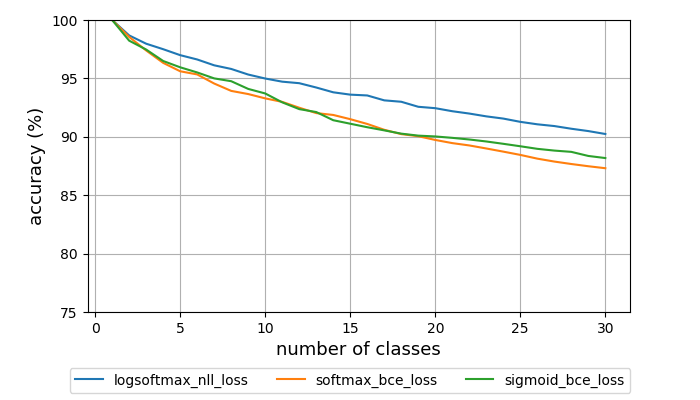
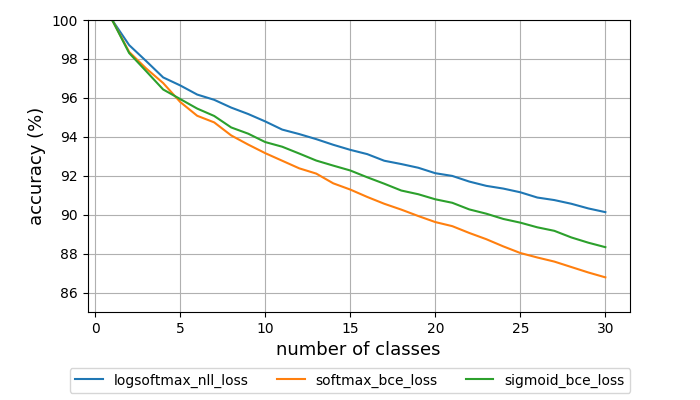
graphs

diff --git a/report/project.tex b/report/project.tex
@@ -150,54 +150,53 @@ When we are constructing a composed model, we only retrieve weights for positive
 
 \section{Accuracy Preservation}
 
-However, does Composing algorithm also guarantees the accuracy requirements? To answer this question, we need to understand how different loss function affects the behaviour of the composed model.
+However, does Composing algorithm also guarantees the minimal accuracy degradation between base model and composed model? To answer this question, we need to understand how different loss function affects the behaviour of the composed model.
 
-\subsection{Limitations with cross entropy loss}
+\subsection{Limitations of cross entropy loss}
 
-State of the art loss for multi-classification problem is cross entropy (CE) loss, which transforms output using softmax and calculates loss using negative log likelihood (NLL).
-Softmax and NLL loss are defined as following:
+State of the art for multi-classification is to use cross entropy (CE) loss, which transforms output by applying softmax and calculates negative log likelihood (NLL) as a measure of loss. Consider the definition of CE loss and NLL loss:
 
 \begin{align*}
-Softmax(y_i) &= \frac{e^{y_i}}{\sum_{j}e^{y_j}} \\
 NegativeLogLikelihood(y, t) & = -\frac{1}{N}\sum_{i=1}^N \left[ t_i \cdot \log y_i\right] \\
+y_i = Softmax(x_i) &= \frac{e^{x_i}}{\sum_{j}e^{x_j}} \\
 \end{align*}
 
-where $x$ is the output of the network and $t$ is the target. target is one hot encoded vector as in common classification problem.
+where $x$ is the output of the network and $t$ is the target, one hot encoded vector as in common implementation. In other words, softmax calculates normalized logits of the network output. Therefore, $y$ has value between zero and one and they must sum up to one. Since multi-class classifier rely on the mutually exclusive assumption among target classes, CE loss is the most suitable as it promotes the positive class while suppressing the negative classes.
 
-Softmax is normalized logits computed from the output of the network. Therefore each index has value between zero and one and sum is designed to be one. Since multi-class classifier rely on the mutually exclusive assumption with about the classes, CE loss is the most suitable as it promotes the positive class while suppressing the negative classes.
+However, such assumption can lead to unpredictable behaviour with composing algorithm. When CE loss is used throughout the composing algorithm, the loss which used in fine-tuning is computed with respect to the output of negative class. However, for a composed model, probability for each class is computed using independently fine-tuned weights and a class with the highest probability is selected as a final prediction.
 
-However, such assumption does not hold for composed model and CE loss can cause indeterministic behaviour with composed model. When CE loss is used throughout the composing algorithm, the loss which used in fine-tuning is computed with respect to the output of negative class. However, for a composed model, it is not fair to select the class with the greatest value as final class because model outputs for each class are not constructed with respect to each other.
-
-For example, let us say there are 3 classes: A, B, and C. For fine-tuning, we construct a dataset which has two classes: one for target class (positive class) and the other constructed with the other two classes (negative class). Once models are fine-tuned for each class, we have weights for positive class and negative class. For simplicity, positive weights are referred with lower case (a, b, and c) and negative weights with lower case with prime (a', b', and c'). During fine-tuning, loss is calculated in pairs: a -- a', b -- b', c -- c'. However, when we construct a composed model, the last layer consists of weights a, b and c. As a results, selecting the highest value as a final class is not a valid approach.
+For example, let us say there are 3 classes: A, B, and C. For fine-tuning, each dataset is constructed with two classes: a positive class representing the target class and negative class representing all the other classes. For simplicity, positive weights are referred with lower case (a, b, and c) and negative weights with lower case with prime (a', b', and c'). During fine-tuning, loss is calculated in pairs: a -- a', b -- b', c -- c'. However, for composing step, the last layer consists of weights a, b and c. As a results, there is no guarantee that the class with the highest value is in fact the class with highest probability.
 
 \subsection{Binary cross entropy with sigmoid}
 
-We now understand the limitation of CE loss caused by mutually exclusive assumption among classes. To overcome such issue, I propose binary cross entropy (BCE) loss with sigmoid.
+Given that CE loss does not preserve the accuracy between the base model and composed model due to mutually exclusive assumption among classes, I propose binary cross entropy (BCE) loss with sigmoid to combat the accuracy degradation.
 
 \begin{align*}
-Sigmoid(y_i) &= \frac{1}{1 + e^{-x_i}} \\
 BinaryCrossEntropy(y, t) & = -\frac{1}{N}\sum_{i=1}^N \left[ t_i \cdot \log y_i + (1 - t_i) \cdot \log (1 - t_i) \right] \\
+y_i = Sigmoid(y_i) &= \frac{1}{1 + e^{-x_i}} \\
 \end{align*}
 
-Unlike softmax in CE Loss, the only input for sigmoid is the output from the network at the corresponding index. Furthermore, while CE loss considers mutually exclusive assumption as part of its calculation, BCE loss considers each index independently and is calculated with respect to its target. As a result, weights for each class in fine-tuned model no longer depend on other factors. This indicates that class with the highest output from composed model has the highest probability of being true class.
+Unlike CE loss, both sigmoid and BCE loss treat each index independently. In other words, weights for each class obtained from fine-tuning does not depend on other classes. This indicates that class with the highest output from composed model is in fact most likely to be the true class among the target classes.
 
-It is found that multi-label classification has raised the same issue with CE loss~\cite{liu2017deep}. It is found that the independence guarantee provided by BCE loss with sigmoid is crucial for multi-label classification and enabled successful training of a model.
+In multi-label classification, the same issue has been raised with CE loss~\cite{liu2017deep}. It is found that the independence guarantee provided by BCE loss with sigmoid is crucial for multi-label classification and enabled successful training of a classifier.
 
 \section{Experiments}
 
-Realising the theoritical limitation of cross entropy loss, I have conducted thorough experiments using PyTorch, reporting how different loss function affects the performance of composed model.
+Realizing the limitation of CE loss from the definitions, I have implemented Composing algorithm on MNIST, Keyword Spotting, and CIFAR-100 demonstrating its feasibility. Experiments are implemented with PyTorch and available on github\footnote{\url{https://github.com/ljj7975/composable-model-exp}}.
 
-In this experiment, I evaluate three different loss functions. First loss function is CE loss. Since PyTorch NLL loss implementation expects log probability, log is applied after softmax but it is found that this does not affect the conclusion from the experiments. Next, I include sigmoid with BCE loss which successfully preserves accuracy between base and composed model. Lastly, I include BCE loss with softmax. This setting is known to be unstable because BCE loss assumes the independence among classes. In fact, I have observed the training collapse once it reaches a certain point. However, since we report accuracy from the best model, results from this setting is still valid and meaningful. This setting should demonstrate how crucial sigmoid is in the composing algorithm as it simply replace sigmoid with softmax from last setting.
+For each dataset, I construct a composed model using three different loss functions. First, I include CE loss. Since PyTorch NLL loss implementation expects log probability, log is applied after softmax but it is found that this does not affect the experiments. Next, I use sigmoid with BCE loss which is found to preserve accuracy better than CE loss. Last loss function is softmax with BCE loss. This setting is known to be unstable because BCE loss assumes the independence among classes while softmax does not. In fact, I have observed the training collapse at some point. However, as I report accuracy from the best model, I found the results from this setting still valid and meaningful. This setting should allow me to understand how crucial sigmoid is for sigmoid with BCE loss combination as it simply replace sigmoid with softmax.
 
-Experiments are conducted with MNIST, Keyword Spotting, and CIFAR100 varying on number of classes, 10, 30, and, 100 respectively. From each experiment, I report accuracy of base model, fine-tuned model, and composed model. Furthermore, as I construct composed model by adding a class at a time, I also report accuracy for each intermediary composed model to understand how how number of classes affects the accuracy of combined model. It is found that the intermediary composed model accuracy fluctuate quite a bit depending on the order each class is added. Therefore, I repeat this process 10 times for each base model as I randomly select a class to add next.
+Throughout the experiments, I report accuracy from every model created from Composing algorithm: base model, fine-tuned model, and composed model. Comparing accuracy of base model against corresponding composed model, it is possible to understand how stable Composing algorithm is with respect to each loss function.
+
+In order to understand how the accuracy of composed model changes with respect to number of classes, I report accuracy from each intermediary composed model as I add a class to construct a composed model. Since fine-tuned accuracy for some classes are greater than the other, I repeat this step 10 times with randomly selection on next class to add and report average.
 
 \subsection{MNIST}
 
-MNIST is a standard benchmark for classification~\cite{lecun1998gradient} which consist of images for handwritten digits. Among the wide range of model architecture solving this problem, I have conducted my experiments with \texttt{LeNet-5} ~\cite{lecun2015lenet}. \texttt{LeNet-5} is constructed with two convolutional, one dropout and two fully connected layers. The original implementation of \texttt{LeNet-5} has 10 and 20 channels for the two convolutional layers and produces accuracy of 98\% on MNIST dataset. Since our goal of this experiment is to understand the difference in peformance caused by different loss functions, I intentionally limited the expressive power of the network by constructing the network with only 5 channels for both convolutional layers.
+MNIST is a standard benchmark for classification~\cite{lecun1998gradient} which consist of images for handwritten digits. Among the wide range of model architecture solving this problem, I have conducted my experiments with \texttt{LeNet-5}~\cite{lecun2015lenet}. \texttt{LeNet-5} is constructed with two convolutional, one dropout and two fully connected layers. The original implementation of \texttt{LeNet-5} has 10 and 20 channels for the first two convolutional layers and produces accuracy of 98\% on MNIST dataset. Since our goal of this experiment is to understand the change in accuracy as different loss functions are used for Composing algorithm, I intentionally limited the expressive power of the network by reconstructing the network with only 5 channels for both convolutional layers.
 
-Both base model training and fine-tuning is conducted using Adam optimizer with learning rate of 0.0001. After conducting 50 iterations of the experiment, it is found that all three loss function converges to similar accuracy within 5 epochs. The base models converge to average accuracy of 95\% and fine-tuned models converge to 98\% (see Figure \ref{table:mnist}).
+Both base model and fine-tuned models are trained using Adam optimizer with learning rate of 0.0001. After conducting 50 experiments, it is found that all three loss function converges to similar accuracy within 5 epochs. The base models converge to average accuracy of 95\% and fine-tuned models converge to 98\% (see Figure \ref{table:mnist}).
 
-Table \ref{figure:composed_mnist} summarizes how the accuracy changes as number of classes increases for composed model. No matter which loss function is used for composing algorithm, decrease in accuracy is found as more classes are involved for the composed model construction. However, models with softmax based loss is found to suffer at a greater rate than models with sigmoid based loss. With CE loss, the composed model for all 10 classes has an accuracy of 85.86\% introducing 10.5\% decrease with respect to the base model. decrease from BCE loss with softmax is found to be the greatest as the accuracy decreases by 17.85\% with the final accuracy of 78.50\%. On the other hand, BCE loss with sigmoid introduces the minimal degradation of 0.2\% and achieves the final accuracy of 95.29\%. \red{This proves that class independence training is crucial with the composing algorithm.}
+Table \ref{figure:composed_mnist} summarizes how the accuracy changes as number of classes increases for composed model. No matter which loss function is used for Composing algorithm, accuracy of composed model decreases as more classes contributes to the composed model. However, models with softmax based loss is found to suffer at a greater rate than models with sigmoid based loss. With CE loss, the composed model for all 10 classes has an accuracy of 85.86\% with relative decrease of 10.5\% from the base model accuracy. Composed model trained with softmax with BCE loss is found to be the worst. The average final accuracy is 78.50\% which is 17.85\% relative decrease. As expected, sigmoid with BCE loss introduces minimal accuracy degradation and achieves 95.29\% accuracy which is very similar to the base model accuracy.
 
 \begin{table}[t]
     \centering
@@ -209,7 +208,7 @@ Table \ref{figure:composed_mnist} summarizes how the accuracy changes as number 
         \multicolumn{2}{c}{\bf Composed model } \\
         \cmidrule(lr){3-5}
         \cmidrule(lr){6-7}
-        & & average & minimum & maximum & accuracy & decrease rate \\
+        & & average & minimum & maximum & accuracy & relative decrease \\
         \midrule
         LogSoftmax + NLL & 95.8 & 98.02 & 96.29 & 99.24 & 85.74 & 10.50 \\
         Softmax + BCE & 94.71 & 97.33 & 95.08 & 99.06 & 77.80 & 17.85 \\
@@ -229,16 +228,15 @@ Table \ref{figure:composed_mnist} summarizes how the accuracy changes as number 
 
 \subsection{Keyword Spotting}
 
-In order to evaluate the universality of composing algorithm, I extend the idea to keyword spotting where the input data is audio. The goal of Keyword Spotting (KWS) is to detect an audio of pre-trained keywords, such as “Hey Siri”. Since the first menaing results introduced by~\cite{chen2014small}, Neural network has been the {\it de facto} approach for KWS. In this experiment, I implement \texttt{res15-narrow} introduced by~\cite{tang2018deep}, which achieves accuracy of 94\% for 12 keywords on Google’s Speech Commands Dataset~\cite{speechcommandsdataset}. \texttt{res15-narrow} comprises 6 residual blocks with 19 feature maps where each residual block is composed of bias-free convolutional and batch normalization layer.
+To understand the universality of Composing algorithm, I extend this idea to keyword spotting where the input data is audio. The goal of Keyword Spotting (KWS) is to detect an audio of pre-trained keywords, such as “Hey Siri”. Since the first application of deep learning on KWS by~\cite{chen2014small}, Neural network has became standard approach for KWS. In this experiment, I implement \texttt{res15-narrow} introduced by~\cite{tang2018deep}, which achieves accuracy of 94\% for 12 keywords on Google’s Speech Commands Dataset~\cite{speechcommandsdataset}. \texttt{res15-narrow} comprises 6 residual blocks with 19 feature maps where each residual block is composed of bias-free convolutional and batch normalization layer.
 
-As opposed to the previous studies with Google’s Speech Commands Dataset where accuracy is evaluated on 12 keywords, I include all 30 keywords as I am interested in how stable the composing algorithm with respect to the increasing number of classes. Following the standard feature extraction process for audio, I first construct Forty-dimensional Mel-Frequency Cepstrum Coefficient (MFCC) frames and stack them using 30ms windows with a 10ms shift. Since the dataset has one-second long utterances of each word, the final processed input size is
-$101\times40$.
+As opposed to the previous studies with Google’s Speech Commands Dataset where accuracy is evaluated on 12 keywords, I include all 30 keywords as I am interested in how stable Composing algorithm is with larger number of classes. Following the standard feature extraction process for audio, I first construct Forty-dimensional Mel-Frequency Cepstrum Coefficient (MFCC) frames and stack them using 30ms windows with a 10ms shift. Since the dataset consists of one-second long utterances of each word, the processed input has size of $101\times40$.
 
-Throughout 10 experiments conducted, stochastic gradient descent is used to train both base model and fine-tuned model with decreases in learning rate from 0.1 to 0.0001, stepping by a factor of ten. The base model is trained for 30 epochs with decrease in learning rate at 10 and 20 epochs. Unlike MNIST, the standard CE loss produces the best results; average accuracy of 93.11\%. It is found that the base model achieves average accuracy of 91.03\% and 89.63\% when trained using softmax with BCE loss and sigmoid with BCE loss respectively.
+Throughout 10 experiments conducted, stochastic gradient descent is used to train both base model and fine-tuned model. Training starts with learning rate of 0.1 but it is decreased to 0.001 by factor of ten at different epochs for each training. Base models are trained for 30 epochs with decrease at 10 and 20th epochs and fine-tuned models are trained for 10 epochs with decrease at 4 and 7th epochs.
 
-In order to obtain fine-tuned weights for each class, I further fine-tune the last fully-connected layer for 10 epochs with the decrease at 4 and 7 epochs. As summarized in table \ref{table:kws}, CE loss leads to the best fine-tuned models of 95.31\% accuracy. Similarly, softmax with BCE loss produces fine-tuned models with average accuracy of 91.84\% and sigmoid with BCE loss produces models with 91.28\%.
+Unlike MNIST, it is found type of loss function introduces difference in accuracy for KWS (see Table \ref{table:kws}). \texttt{res15-narrow} achieves the best accuracy when it is trained with CE loss; 93.09\% accuracy from the base model with average accuracy of 95.32\% from fine-tuned models. Softmax with BCE loss achieves 90.94\% accuracy with base model and average accuracy of 91.79\% with fine-tuned models. Sigmoid with BCE loss starts from the lowest accuracy of 89.62\% with fine-tuned models of 91.31\% accuracy.
 
-As observed in the experiment with MNIST, accuracy of composed model decreases as more classes are involved (see \ref{figure:composed_kws}. The model with CE loss shows the final accuracy of 90.24\% which is 3.08\% relative decrease from its base model accuracy. Softmax with BCE loss shows relative decrease of 4.09\% with the final accuracy of 87.31\% while the relative decrease in accuracy with sigmoid with BCE loss is only 1.62\% with the final accuracy of 88.18\%. Though composed model with CE loss demonstrates the best performance, sigmoid with BCE loss is found to be the most roboust loss function for composing algorithm with KWS.
+However, as observed with MNIST, sigmoid with BCE loss shows the least relative decreases from the base model accuracy. While sigmoid with BCE loss leads to relative decrease of 1.44\%, CE loss and softmax with BCE loss shows relative decreases of 3.18\% and 4.57\% respectively. From figure \ref{figure:composed_kws}, it is found that accuracy of composed models decreases again for KWS as number of classes increases.
 
 \begin{table}[t]
     \centering
@@ -250,17 +248,16 @@ As observed in the experiment with MNIST, accuracy of composed model decreases a
         \multicolumn{2}{c}{\bf Composed model } \\
         \cmidrule(lr){3-5}
         \cmidrule(lr){6-7}
-        & & average & minimum & maximum & accuracy & decrease rate \\
+        & & average & minimum & maximum & accuracy & relative decrease \\
         \midrule
-        LogSoftmax + NLL & 93.11 & 95.31 & 92.89 & 97.17 & 90.24 & 3.08 \\
-        Softmax + BCE & 91.03 & 91.98 & 89.29 & 95.28 & 87.31 & 4.09 \\
-        Sigmoid + BCE & 89.63 & 91.28 & 89.08 & 93.97 & 88.18 & 1.62 \\
+        LogSoftmax + NLL & 93.09 & 95.32 & 92.57 & 97.59 & 90.13 & 3.18 \\
+        Softmax + BCE & 90.94 & 91.79 & 89.64 & 94.80 & 86.78 & 4.57 \\
+        Sigmoid + BCE & 89.62 & 91.31 & 88.73 & 93.91 & 88.33 & 1.44 \\
         \bottomrule[1pt]
     \end{tabular}
     \caption{Average accuracy of base, fine-tuned, and composed model for KWS}
     \label{table:kws}
 \end{table}
-
 
 \begin{figure}[t]
     \centering
@@ -271,9 +268,11 @@ As observed in the experiment with MNIST, accuracy of composed model decreases a
 
 \subsection{CIFAR-100}
 
-CIFAR is a collection of tiny colour images from the web introduced by~\cite{krizhevsky2009learning}. There exist two variations of CIFAR varying on number of classes: CIFAR-10 and CIFAR-100. The following experiment is constructed with CIFAR-100 which constitutes of 600 images of 100 classes.
+CIFAR is a collection of tiny colour images from the web introduced by~\cite{krizhevsky2009learning}. There exist two kind of CIFAR varying on number of classes: CIFAR-10 and CIFAR-100. The following experiment is constructed with CIFAR-100 which constitutes of 600 images of 100 classes.
 
-For this experiment, I have implemented DenseNet, a state of the art model architecture for CIFAR dataset~\cite{huang2017densely}. Building upon the architecture with residual connection, the feature-maps of all preceding layers are used as inputs for each layer. Following the standard implementation introduced by~\cite{huang2017densely}, the network has three dense blocks with transition layers between which changes the feature-map sizes by convolution and pooling. I include results from two variations of DenseNet: \texttt{dense-40} and \texttt{dense-100} where each has 40 and 100 layers respectively.
+For this experiment, I have implemented \texttt{DenseNet}, a state of the art model architecture for CIFAR dataset~\cite{huang2017densely}. Building upon the architecture with residual connection, the feature maps of all preceding layers are used as inputs for each layer. The network has three dense blocks with transition layers between which changes the feature-map sizes by convolution and pooling. The original implementation involves 300 epochs of training using stochastic gradient descent with learning rate decrease by factor of ten from 0.1 to 0.001.
+
+Table \ref{table:cifar} summerizes accuracy of models throughout Composing algorithm, trained with different loss functions. As training \texttt{DenseNet} for CIFAR-100 is very expensive, only one base model has been trained for each loss functions. However, composing experiments are conducted with 10 iterations as mentioned in the previous section. In this experiment, the base models are trained for 200 epochs achieving accuracy of 69.95\% for CE loss, 64.23\% for softmax with BCE loss, and 64.72\% for sigmoid with BCE loss. Fine-tuned models achieve average accuracy of 86.12\%, 88.63\%, and 87.79\% respectively.
 
 \begin{table}[t]
     \centering
@@ -285,25 +284,33 @@ For this experiment, I have implemented DenseNet, a state of the art model archi
         \multicolumn{2}{c}{\bf Composed model } \\
         \cmidrule(lr){3-5}
         \cmidrule(lr){6-7}
-        & & average & minimum & maximum & accuracy & decrease rate \\
+        & & average & minimum & maximum & accuracy & relative decrease \\
         \midrule
-        LogSoftmax + NLL & 93.11 & 95.31 & 92.89 & 97.17 & 90.24 & 3.08 \\
-        Softmax + BCE & 91.03 & 91.98 & 89.29 & 95.28 & 87.31 & 4.09 \\
-        Sigmoid + BCE & 89.63 & 91.28 & 89.08 & 93.97 & 88.18 & 1.62 \\
+        LogSoftmax + NLL & 69.95 & 86.12 & 71.00 & 96.00 & 52.74 & 24.60 \\
+        Softmax + BCE & 64.23 & 88.63 & 79.50 & 97.50 & 52.04 & 18.98 \\
+        Sigmoid + BCE & 64.72 & 87.79 & 77.50 & 96.00 & 57.42 & 11.28 \\
         \bottomrule[1pt]
     \end{tabular}
     \caption{Average accuracy of base, fine-tuned, and composed model for CIFAR-100}
     \label{table:cifar}
 \end{table}
 
+\begin{figure}[t]
+    \centering
+    \includegraphics[scale=0.5,trim={0mm 0mm 0mm 0mm},clip]{cifar100.png}
+    \caption{Accuracy of composed model for CIFAR-100 with respect to number of classes}
+    \label{figure:composed_cifar}
+\end{figure}
 
-% \begin{figure}[t]
-%     \centering
-%     \includegraphics[scale=0.5,trim={0mm 0mm 0mm 0mm},clip]{cifar.png}
-%     \caption{Accuracy of composed model for CIFAR-100 with respect to number of classes}
-%     \label{figure:composed_cifar}
-% \end{figure}
+Again, figure \ref{figure:composed_cifar} shows how accuracy of composed model changes as number of classes increases. It is found that CIFAR-100 introduces greater rate of relative decrease than MNIST and KWS. I believe this is due to the fact that CIFAR-100 involves much larger number of classes. Again, limitation of CE loss is clear as it leads to 24.60\% relative decrease with respect to the base model accuracy. On the other hand, sigmoid with BCE loss introduces the least relative decrease of 11.28\%.
 
+\section{Discussion}
+
+base model for each number of classes
+
+average layers
+
+KL loss MSE etc
 
 \section{Conclusion}
 In this section please concisely describe what you are going to achieve in this project. E.g., formulate your problem precisely (mathematically), present the technical challenges (if any), discuss the tools or datasets that you will build on, state your goals, and come up with a plan for evaluation.

diff --git a/experiment.py b/experiment.py
@@ -228,17 +228,17 @@ def evaluate_models(saved_model_dir, num_iter, step_size):
     cp.print_progress("< evaluate base model >")
     num_base_model, base_model_acc = evaluate_base_model(saved_model_dir)
     cp.print_progress("< base model acc >")
-    cp.print_progress(json.dumps(base_model_acc, indent=4, separators=(': ')))
+    cp.print_progress(json.dumps(base_model_acc, indent=4))
 
     cp.print_progress("< evaluate fine tuned model >")
     num_fine_tuned_model, fine_tuned_model_acc = evaluate_fine_tuned_model(saved_model_dir)
     cp.print_progress("< fine tuned model acc >")
-    cp.print_progress(json.dumps(fine_tuned_model_acc, indent=4, separators=(': ')))
+    cp.print_progress(json.dumps(fine_tuned_model_acc, indent=4))
 
     cp.print_progress("< evaluate combined model >")
     num_combined_model, combined_model_acc = evaluate_combined_model(saved_model_dir, num_iter, step_size)
     cp.print_progress("< combined model acc >")
-    cp.print_progress(json.dumps(combined_model_acc, indent=4, separators=(': ')))
+    cp.print_progress(json.dumps(combined_model_acc, indent=4))
 
     assert num_base_model == num_combined_model
     assert num_base_model == num_fine_tuned_model
@@ -278,6 +278,7 @@ def main(train_flag, saved_model_dir, num_model, num_iter, step_size):
     results['num_class'] = base_config['n_class']
     results['target_class'] = TARGET_CLASS
     results['step_size'] = step_size
+    results['num_iter'] = num_iter
 
     cp.print_warning("< EXP RESULTS >")
     for loss in EXP_LOSS:

diff --git a/graphs/accuracy.py b/graphs/accuracy.py
@@ -10,6 +10,7 @@ results = eval(open(summary_file).read())
 
 EXP_LOSS = ['logsoftmax_nll_loss', 'softmax_bce_loss', 'sigmoid_bce_loss']
 num_model = results['num_model']
+step_size = results.get('step_size', 1)
 
 print("num_model", num_model)
 
@@ -29,22 +30,22 @@ for loss in EXP_LOSS:
     print("\t", "avg:", np.mean(ft_values))
     print("\t", "min:", np.min(ft_values))
     print("\t", "max:", np.max(ft_values))
-	
-    values = value['combined_model']['average_accuracy']
+
+    values = np.array(value['combined_model']['average_accuracy'])
     print("   combined model")
     print("\t", "final acc:", values[-1])
     gap = base_acc - values[-1]
     print("\t", "gap from base:", round(100 * gap / base_acc, 2), "%")
 
     num_class = results.get('num_class', len(values))
-    legend = plt.plot(np.arange(num_class) + 1, values)
+    legend = plt.plot((np.arange(num_class/step_size) + 1) * step_size, values)
     legends.append(legend)
 
 font_size = 13
 plt.xlabel('number of classes', fontsize=font_size)
 plt.ylabel('accuracy (%)', fontsize=font_size)
 
-plt.ylim(75, 100)
+plt.ylim(85, 100)
 
 fig.legend(legends,     # The line objects
            labels=EXP_LOSS,
